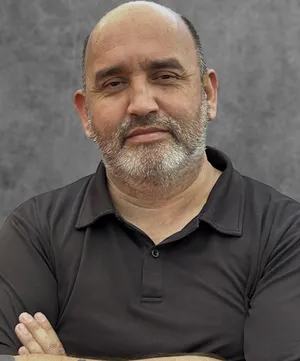
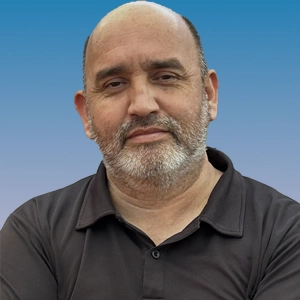
cambio de imagenes y whatsapp

diff --git a/index.html b/index.html
@@ -1190,7 +1190,7 @@
                 <li><a href="https://www.instagram.com/sindicato_2tvn/" target="_blank" rel="noopener noreferrer" aria-label="Instagram"><i class="fab fa-instagram"></i></a></li>
                 <li><a href="https://www.facebook.com/s2tvn/" target="_blank" rel="noopener noreferrer" aria-label="Facebook"><i class="fab fa-facebook-f"></i></a></li>                
                 <li><a href="https://x.com/s2_tvn" target="_blank" rel="noopener noreferrer" aria-label="X"><i class="fab fa-x-twitter"></i></a></li>
-                <li><a href="https://wa.me/56992255546?text=Hola,%20les%20escribo%20desde%20su%20página%20web!" target="_blank" rel="noopener noreferrer" aria-label="WhatsApp"><i class="fab fa-whatsapp"></i></a></li>
+                <li><a href="https://wa.me/56997405350?text=Hola,%20les%20escribo%20desde%20su%20página%20web!" target="_blank" rel="noopener noreferrer" aria-label="WhatsApp"><i class="fab fa-whatsapp"></i></a></li>
                 <li><a href="mailto:sindicato2@tvn.cl" aria-label="Email"><i class="fas fa-envelope"></i></a></li>
                 <li><a href="https://sindicato2tvn.cl/" target="top" rel="noopener noreferrer" aria-label="Sitio Web"><i class="fas fa-globe"></i></a></li>                
             </ul>
@@ -1200,7 +1200,7 @@
     </footer>
 
     <!-- WhatsApp Float Button -->
-    <a href="https://wa.me/56992255546?text=Hola,%20les%20escribo%20desde%20su%20página%20web!" target="_blank" rel="noopener noreferrer" class="whatsapp-float" aria-label="Contactar por WhatsApp">
+    <a href="https://wa.me/56997405350?text=Hola,%20les%20escribo%20desde%20su%20página%20web!" target="_blank" rel="noopener noreferrer" class="whatsapp-float" aria-label="Contactar por WhatsApp">
         <i class="fab fa-whatsapp"></i>
     </a>
 
@@ -1275,7 +1275,7 @@
                 const email = document.getElementById('email').value;
                 const celular = document.getElementById('celular').value;
                 const mensaje = document.getElementById('mensaje').value;
-                const whatsappNumber = "56992255546";
+                const whatsappNumber = "56997405350";
                 
                 let messageBody = `*Contacto desde la Web Sindicato2TVN*\n\n`;
                 messageBody += `*Nombre:* ${nombre} ${apellido}\n`;
